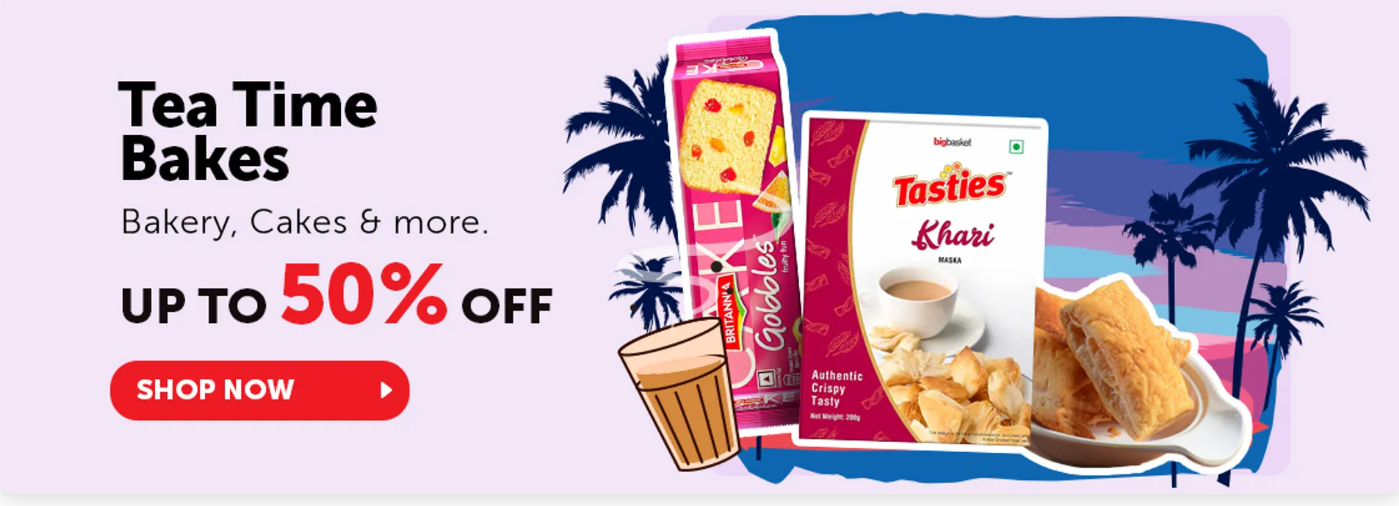
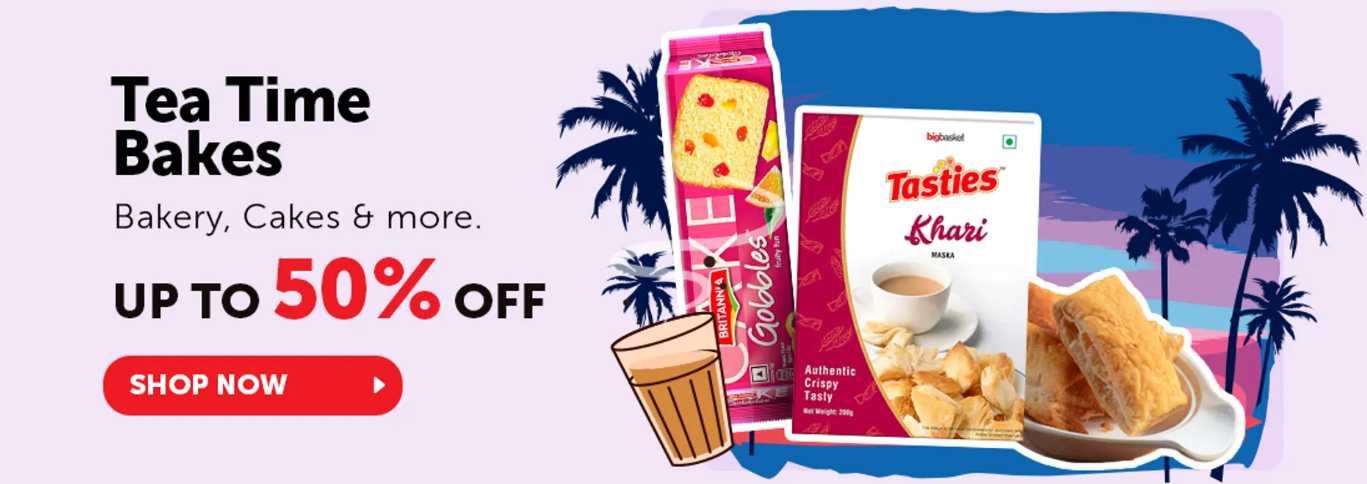
slider complete

diff --git a/UI_Grocery_App/src/component/Header/Header.jsx b/UI_Grocery_App/src/component/Header/Header.jsx
@@ -1,4 +1,4 @@
-import React from 'react';
+import React from "react";
 import bigbasket from "../../assets/images/bigbasket.png";
 import search from "../../assets/images/search.png";
 import compass from "../../assets/images/compass.png";
@@ -15,7 +15,11 @@ function Header() {
       <div className="grid grid-rows-2 mx-48 h-28 ">
         <div className="flex flex-row gap-3 m-2">
           <div>
-            <img src={bigbasket} className="h-10 w-[110px]" alt="bigbasket logo" />
+            <img
+              src={bigbasket}
+              className="h-10 w-[110px]"
+              alt="bigbasket logo"
+            />
           </div>
           <div className="flex flex-row border-[1px] border-border-color rounded-md w-[60%]">
             <img src={search} className="h-5 m-2" alt="search" />
@@ -33,7 +37,7 @@ function Header() {
           </div>
           <div>
             <button className="button-bg-color rounded-md px-2 pt-1">
-              <img src={profile} className="w-11 h-9" alt="profile icon" />
+              <img src={profile} className="w-12 h-19" alt="profile icon" />
             </button>
           </div>
           <div>
@@ -45,8 +49,14 @@ function Header() {
         <div className="flex flex-row m-2 justify-between">
           <div className="p-1">
             <button className="bg-[#5E9400] py-2 rounded-[5px] w-[170px] flex flex-row ">
-              <span className="text-white pl-3 text-[13px]">Shop by Category</span>
-              <img className="w-5 h-5 ml-4" src={dropdown} alt="dropdown icon" />
+              <span className="text-white pl-3 text-[13px]">
+                Shop by Category
+              </span>
+              <img
+                className="w-5 h-5 ml-4"
+                src={dropdown}
+                alt="dropdown icon"
+              />
             </button>
           </div>
           <div className="flex flex-row w-[65%] justify-between ">
@@ -69,22 +79,30 @@ function Header() {
                 <a href="./">Fresh Vegetables</a>
               </li>
             </ul>
-            <div className='mr-4'>
+            <div className="mr-4">
               <button className="pt-[11px]">
                 <img className="w-5 h-5" src={arrow} alt="arrow icon" />
               </button>
             </div>
-            <div className='bg-slate-200 w-[1px] h-6 mt-2' ></div>
+            <div className="bg-slate-200 w-[1px] h-6 mt-2"></div>
           </div>
           <div className="flex flex-row justify-between w-40">
             <button>
               <a href="/">
-                <img className="w-16 h-6 mx-1" src={smartbasket} alt="smart basket img" />
+                <img
+                  className="w-16 h-6 mx-1"
+                  src={smartbasket}
+                  alt="smart basket img"
+                />
               </a>
             </button>
             <button>
               <a href="/">
-                <img src={offers} className="w-16 h-[26px] mx-2" alt="offer img" />
+                <img
+                  src={offers}
+                  className="w-16 h-[26px] mx-2"
+                  alt="offer img"
+                />
               </a>
             </button>
           </div>

diff --git a/UI_Grocery_App/src/Small_component/Bottom_autoSlider.jsx b/UI_Grocery_App/src/Small_component/Bottom_autoSlider.jsx
@@ -4,43 +4,43 @@ import cakes from "../assets/images/cakes.png";
 import pet_food from "../assets/images/pet_food.png";
 import suppliments from "../assets/images/suppliments.png";
 import baby_cosmetics from "../assets/images/baby_cosmetics.png";
-function Bottom_autoSlider() {
-  const [imagesIndex, setImageIndex] = useState(0);
-  const slides = [
-    { id: 1, url: cakes, href: "./" },
-    { id: 2, url: baby_cosmetics, href: "./" },
-    { id: 3, url: pet_food, href: "./" },
-    { id: 4, url: suppliments, href: "./" },
-  ];
- 
-  useEffect(() => {
-    const interval = setInterval(() => {
-      setImageIndex((prev) => {
-      
-        if (prev === slides?.length - 1) return 0;
-        return prev + 1;
-      });
-    }, 3000);
+import Slider from "react-slick";
+import "slick-carousel/slick/slick.css";
+import "slick-carousel/slick/slick-theme.css";
 
-    return () => {
-      clearInterval(interval);
-    };
-  }, [slides?.length]);
+const slides = [
+  { id: 1, url: cakes, href: "./" },
+  { id: 2, url: baby_cosmetics, href: "./" },
+  { id: 3, url: pet_food, href: "./" },
+  { id: 4, url: suppliments, href: "./" },
+];
+
+function Bottom_autoSlider() {
+  var settings = {
+    dots: true,
+    infinite: true,
+    slidesToShow: 1,
+    slidesToScroll: 1,
+    autoplay: true,
+    speed: 1000,
+    autoplaySpeed: 3000,
+    cssEase: "linear",
+  };
 
   return (
-    <div className=" w-full relative overflow-hidden rounded-xl">
-      <div
-        className="flex transition-transform duration-1000 rounded"
-        style={{ transform: `translateX(-${imagesIndex * 100}%)` }}
-      >
+    <div className="slider-container rounded-xl my-5 shadow-md h-[400px] ">
+      <Slider {...settings}>
         {slides.map((slide) => (
           <div key={slide.id} className="flex-shrink-0 w-full">
             <a href={slide.href}>
-              <img src={slide.url} className="w-full h-full object-cover" />
+              <img
+                src={slide.url}
+                className=" h-[410px] w-[105%] object-cover rounded-xl  "
+              />
             </a>
           </div>
         ))}
-      </div>
+      </Slider>
     </div>
   );
 }

diff --git a/UI_Grocery_App/src/App.css b/UI_Grocery_App/src/App.css
@@ -1,27 +1,58 @@
-
-@import url('https://fonts.googleapis.com/css2?family=Montserrat:ital,wght@0,100..900;1,100..900&display=swap');
+@import url("https://fonts.googleapis.com/css2?family=Montserrat:ital,wght@0,100..900;1,100..900&display=swap");
 
 :root {
-    font-size: 16px;
-    font-family:  Montserrat,Helvetica, Arial, sans-serif;
-    --button-bg:rgba(238, 238, 238, 1);
+  font-size: 16px;
+  font-family: Montserrat, Helvetica, Arial, sans-serif;
+  --button-bg: rgba(238, 238, 238, 1);
 }
 
 body {
-   
-    background-color:#f7f7f7;
+  background-color: #f7f7f7;
 }
 
-*{
-    padding:0;
-    margin:0;
+* {
+  padding: 0;
+  margin: 0;
 }
-.apple-green{
-    color:#76b900;
+.apple-green {
+  color: #76b900;
 }
-.button-bg-color{
-    background-color:var(--button-bg);
+.button-bg-color {
+  background-color: var(--button-bg);
 }
-.cart-color{
-    background-color: #FAE6E6;
+.cart-color {
+  background-color: #fae6e6;
+}
+/* Custom styles for slick dots */
+.slick-dots {
+  padding: 2px !important;
+  display: flex !important;
+  justify-items: center !important;
+  gap:1px !important;
+  margin: 0 45% !important ;
+  background-color: #7A767C;
+  opacity:.75 !important;
+  bottom: 15px !important;
+  width: 100px !important;
+  height: 20px;
+  border-radius: 10px;
+  -webkit-border-radius: 10px;
+  -moz-border-radius: 10px;
+  -ms-border-radius: 10px;
+  -o-border-radius: 10px;
+}
+
+.slick-dots li {
+    width:10px !important ;
+}
+
+.slick-dots li button:before {
+  color: white !important ;
+  opacity: 1 !important;
+  font-size: 10px !important;
+}
+.slick-dots li.slick-active button:before {
+  color: white !important;
+  opacity: 1!important;
+  font-size: 20px !important;
 }

diff --git a/UI_Grocery_App/src/component/Home/Home.jsx b/UI_Grocery_App/src/component/Home/Home.jsx
@@ -9,9 +9,9 @@ function Home(){
 
 <AutoSlider />
 < Card />
-<Bottom_autoSlider />
+<Bottom_autoSlider  />
 
-<div >
+<div className="py-5">
     <h4 className="font-semibold text-[14px] px-1">bigbasket – online grocery store</h4>
    <div className="font-normal mt-2 text-[14px] text-gray-600">
     <p className="px-1 my-2">Did you ever imagine that the freshest of fruits and vegetables, top-quality pulses and food grains, dairy products, and hundreds of branded items could be handpicked and delivered to your home, all at the click of a button? In today's fast-paced world, bigbasket.com, India's pioneering online grocery store, continues to bring a staggering array of over 40,000 products from more than 1,000 brands to the doorsteps of over 10 million satisfied customers.

diff --git a/UI_Grocery_App/src/App.jsx b/UI_Grocery_App/src/App.jsx
@@ -1,23 +1,18 @@
-import { useState } from 'react'
+import { useState } from "react";
+import { Outlet } from "react-router-dom";
 
-import './App.css'
-import Header from './component/Header/Header'
-import Footer from"./component/Footer/Footer"
-import Home from './component/Home/Home'
-
+import "./App.css";
+import Header from "./component/Header/Header";
+import Footer from "./component/Footer/Footer";
+import Home from "./component/Home/Home";
 function App() {
-  const [count, setCount] = useState(0)
-
   return (
     <>
-    <div className="">
-     < Header />
-     {/* <Outlook /> */}
-     < Home />
-     < Footer />
-     </div>
+      <Header />
+      <Outlet/>
+      <Footer />
     </>
-  )
+  );
 }
 
-export default App
+export default App;

diff --git a/UI_Grocery_App/src/main.jsx b/UI_Grocery_App/src/main.jsx
@@ -2,9 +2,29 @@ import { StrictMode } from 'react'
 import { createRoot } from 'react-dom/client'
 import App from './App.jsx'
 import './index.css'
+import store from './store/index.js'
+import {Provider} from "react-redux"
+import {RouterProvider,createBrowserRouter} from "react-router-dom"
+import Home from './component/Home/Home.jsx'
 
+const router=createBrowserRouter(
+  [
+    {
+      path:"/",
+      element: <App />,
+      children:[
+        {
+          path:"/",
+          element:<Home/>,
+        },
+      ]
+    }
+  ]
+)
 createRoot(document.getElementById('root')).render(
+  <Provider store ={store}>
   <StrictMode>
-    <App />
+   <RouterProvider  router={router}/>
   </StrictMode>,
+  </Provider>
 )

diff --git a/UI_Grocery_App/src/component/Footer/Footer.jsx b/UI_Grocery_App/src/component/Footer/Footer.jsx
@@ -4,7 +4,7 @@ import Facebook_logo from "../../assets/images/Facebook_logo.jpeg";
 function Footer() {
   return (
     <footer className="bg-[#101010]">
-      <div className="mx-48 grid grid-cols-3 ">
+      <div className="mx-48 grid grid-cols-3  ">
         <div className="pt-12">
           <div>
             <h4 className=" text-white  text-[14px] font-normal pl-3 ">

diff --git a/UI_Grocery_App/src/store/index.js b/UI_Grocery_App/src/store/index.js
@@ -1,0 +1,7 @@
+import { configureStore } from "@reduxjs/toolkit";
+    const store=configureStore({
+        reducer:{
+            
+        }
+    })
+    export default store
